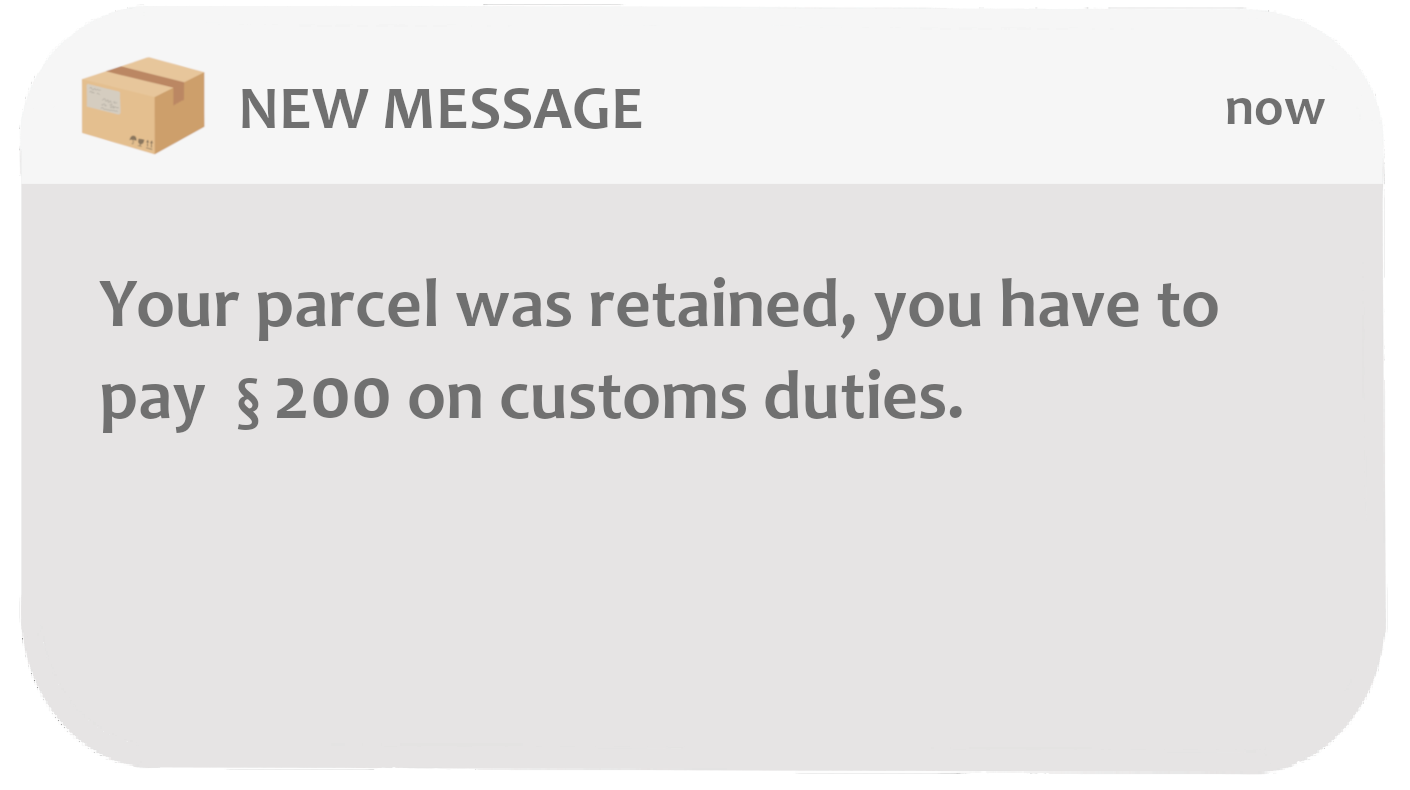
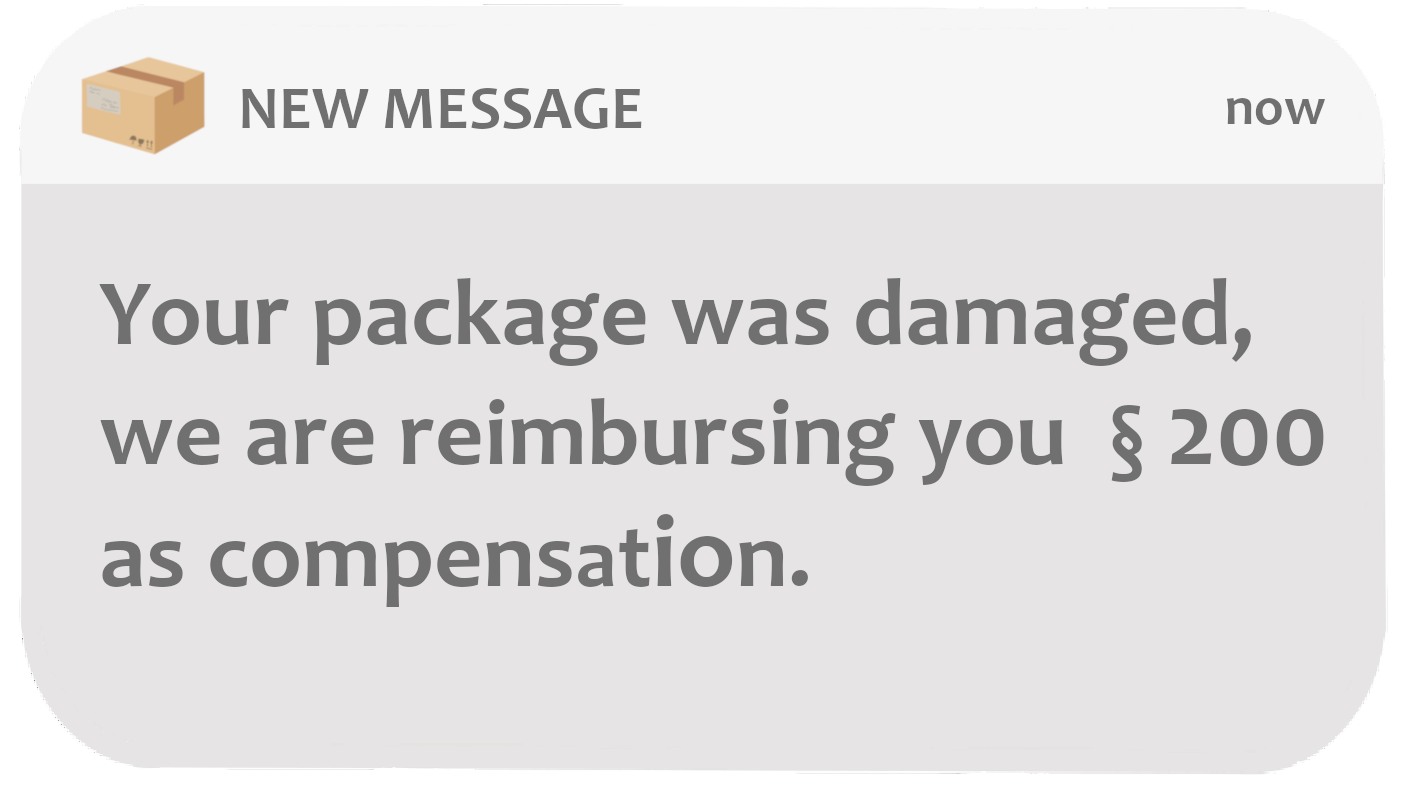
added colors to envelopes, fixed front of envelope, and replaced parcel message images

Changed region(s): [[0.0624, 0.3342, 0.9362, 0.638], [0.0624, 0.638, 0.5929, 0.7595]]

diff --git a/public/assets/css/style.css b/public/assets/css/style.css
@@ -4,6 +4,7 @@
   --bee: #FBE509;
   --bg-color: #FFF;
   --dark: #222;
+  --pastel: #ffef80;
   }
 
 * {
@@ -74,7 +75,7 @@ header h1 {
   font-family: 'Luckiest Guy', cursive;
   font-family: 400;
   font-size: 3em;
-  margin: 0 0 15px;
+  margin: 20px 0;
   color: var(--bg-color);
 }
 
@@ -204,9 +205,10 @@ ul.current-list li .curr-envelope-text {
   transition: all 0.4s ease-in-out;
 }
 
-/* .dash-view {
+.dash-view {
   transform: scale(.5);
-} */
+  -webkit-transform-origin-y: 0;
+}
 
 #envelope-view {
   display: flex;
@@ -214,7 +216,7 @@ ul.current-list li .curr-envelope-text {
 .envelope {
   background: transparent;
   width: 30vw;
-  height: calc(30vw - 100px);
+  height: calc(30vw - 15vw);
   perspective: 1200px;
   margin-bottom: 40px;
   margin: 10px;
@@ -225,11 +227,8 @@ ul.current-list li .curr-envelope-text {
   transition: transform 0.6s;
   transform-style: preserve-3d;
   box-shadow: 0 4px 8px 0 rgba(0,0,0,0.2);
+  background-color: var(--pastel);
 }
-/* .envelope:hover .envelope-wrap {
-  cursor: pointer;
-  transform: rotateY(180deg);
-} */
 .envelope:hover {
   cursor: pointer;
 }
@@ -246,18 +245,24 @@ ul.current-list li .curr-envelope-text {
   box-shadow: 2px 2px 5px rgba(0,0,0,.2);
 }
 .envelope-back {
+  mix-blend-mode: multiply;
   background-color: var(--bg-color);
   background-image: url('/assets/images/envelopes/envelope-bg.jpg');
+  background-size: cover;
+  background-position: center;
   transform: rotateY(180deg);
   color: var(--dark);
   display: flex;
   justify-content: center;
   align-items: center;
-  font-size: 8em;
+  font-size: 10em;
 }
 .envelope-front {
+  mix-blend-mode: multiply;
   background-color: var(--bg-color);
   background-image: url('/assets/images/envelopes/envelope-front.jpg');
+  background-size: cover;
+  background-position: center;
 }
 .envelope-text {
   background-color: var(--bg-color);
@@ -272,17 +277,12 @@ ul.current-list li .curr-envelope-text {
   flex-direction: column;
 }
 #envelope-content div {
-  background-image: url('/assets/images/envelopes/envelope-bg.jpg');
-  background-color: var(--bg-color);
+  background-color: var(--pastel);
   padding: 50px;
   font-size: 6em;
   color: var(--dark);
   transform: scale(0);
   transition: all 0.4s ease-in-out;
-  /* width: 100%; max-width: 750px;
-  position: absolute;
-  top: 0; left: 0;
-  margin: 0 auto; */
   display: flex;
   justify-content: center;
   align-items: center;
@@ -291,6 +291,18 @@ ul.current-list li .curr-envelope-text {
   position: absolute;
   top: 0; left: 0;
   z-index: -1;
+}
+#envelope-content div::before {
+  content: '';
+  mix-blend-mode: multiply;
+  min-height: 100vh;
+  width: 100vw;
+  position: absolute;
+  top: 0; left: 0;
+  z-index: -1;
+  background-image: url('/assets/images/envelopes/envelope-bg.jpg');
+  background-size: cover;
+  background-position: center;
 }
 #envelope-content .show-content {
   transform: scale(1);
@@ -307,10 +319,12 @@ ul.current-list li .curr-envelope-text {
 .indie-flower {
   font-family: 'Indie Flower', cursive;
   font-size: .7em;
+  filter: hue-rotate(120deg);
 }
 .nanum-brush {
   font-family: 'Nanum Brush Script', cursive;
   font-size: 1.1em;
+  filter: hue-rotate(240deg);
 }
 .square-peg {
   font-family: 'Square Peg', cursive;

diff --git a/public/assets/js/socket.js b/public/assets/js/socket.js
@@ -139,7 +139,7 @@ socket.on('envelope', (data) => {
     }
     else if (data.current === "clickEnvelope" && envelopesView) {
         const currentEnv = document.querySelector(`#env-${data.envelopeNum}`);
-        console.log(currentEnv);
+        
         if (currentEnv.classList.contains('flip')) {
             currentEnv.classList.remove('flip');
         } else {
@@ -148,13 +148,15 @@ socket.on('envelope', (data) => {
 
         const allEnvelopeCont = document.querySelectorAll('.envelope-cont');
 
-        allEnvelopeCont.forEach((envelopeCont, i) => {
-            if (allEnvelopeCont[data.envelopeNum].classList.contains('show-content')) {
-                allEnvelopeCont[data.envelopeNum].classList.remove('show-content');
-            } else {
-                allEnvelopeCont[data.envelopeNum].classList.add('show-content');
-            }
-        });
+        setTimeout(function() {
+            allEnvelopeCont.forEach((envelopeCont, i) => {
+                if (allEnvelopeCont[data.envelopeNum].classList.contains('show-content')) {
+                    allEnvelopeCont[data.envelopeNum].classList.remove('show-content');
+                } else {
+                    allEnvelopeCont[data.envelopeNum].classList.add('show-content');
+                }
+            });
+        }, 300);
         
     }
     else if (data.current === 'clearEnvelope' && envelopesView) {
@@ -162,9 +164,11 @@ socket.on('envelope', (data) => {
             document.querySelector('.show-content').classList.remove('show-content');
         }
         const allEnv = document.querySelectorAll('.envelope');
-        allEnv.forEach(env => {
-            env.classList.add('flip');
-        })
+        setTimeout(function() {
+            allEnv.forEach(env => {
+                env.classList.add('flip');
+            })
+        }, 300);
     }
     else if (data.current === 'parcel' && parcelImg) {
         parcelImg.classList.remove("show-img");
